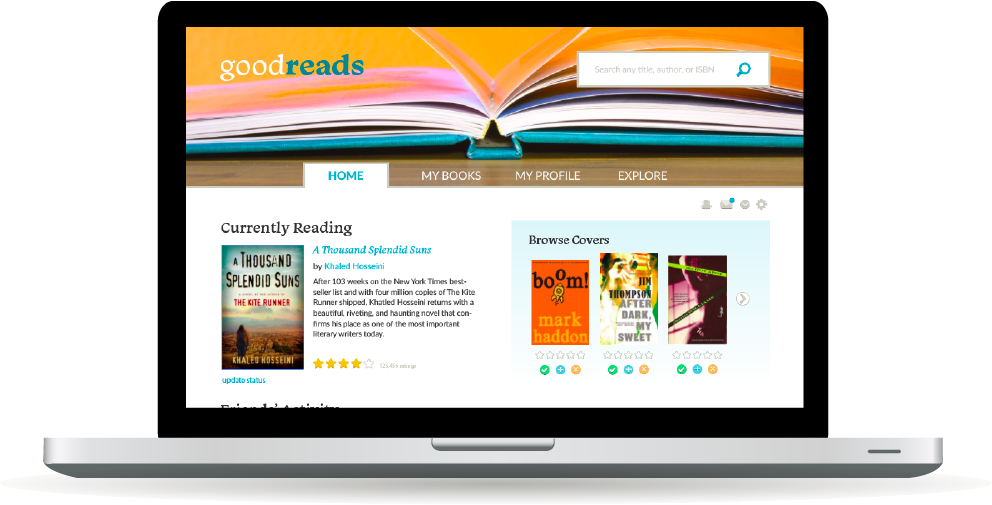
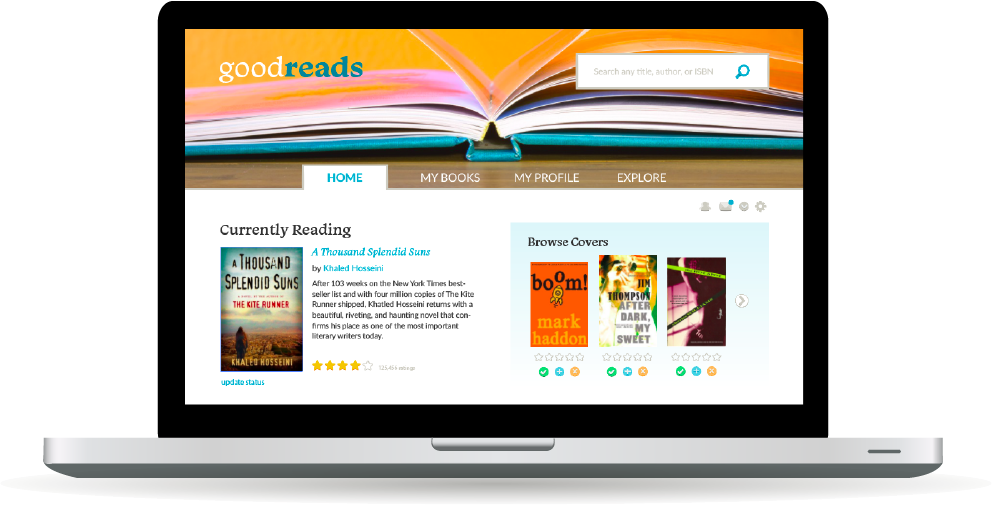
additions of work to goodreads work page

diff --git a/_sass/_small.scss b/_sass/_small.scss
@@ -421,7 +421,7 @@ article {
 	overflow: hidden;
 }
 
-.small, .medium {
+.small, .medium, .goodreads-small, .goodreads-med {
 	margin: 15px auto;
 }
 
@@ -454,6 +454,15 @@ article {
 .header-snapshot {
 	float: left;
 }
+
+.goodreads-small {
+	max-width: 480px;
+}
+
+.goodreads-med {
+	max-width: 770px;
+}
+
 
 // ABOUT -------------------------------------------------------------
 .about-container {

diff --git a/_sass/_large.scss b/_sass/_large.scss
@@ -47,4 +47,15 @@
 		max-width: 550px;
 	}
 
+	.goodreads-small {
+		float: left;
+		max-width: 190px;
+	}
+
+	.goodreads-med {
+		float: right;
+		max-width: 600px;
+	}
+
+
 } //end of media query

diff --git a/work/03-goodreads.md b/work/03-goodreads.md
@@ -6,10 +6,14 @@ id: goodreads
 github: https://github.com/cczapski/Goodreads
 preview: /images/work/goodreads/home_laptop_goodreads.png
 technologies: Adobe Illustrator
-short:  
+short: This project is a redesign of the 2015 version of Goodreads' website. With the numerous interactive elements of the site, the project focused on improving the overall flow and layout of the current design while creating an intuitive user process. Please note, this project is not officially affliated with the actual Goodreads company and is simply an Iron Yard project. 
 ---
 
-
-
+<p class="goodreads-small">
+    <img alt="Goodreads small and medium home page design" src="/images/work/goodreads/goodreads_mockup_home-01.png">  
+</p>
+<p class="goodreads-med">
+    <img alt="Goodreads small and medium home page design" src="/images/work/goodreads/goodreads_mockup_home-02.png">  
+</p>
 
 <a class="credit" href='http://www.freepik.com/free-vector/screens-collection-free-vector_713789.htm'>Devices designed by Freepik</a>
